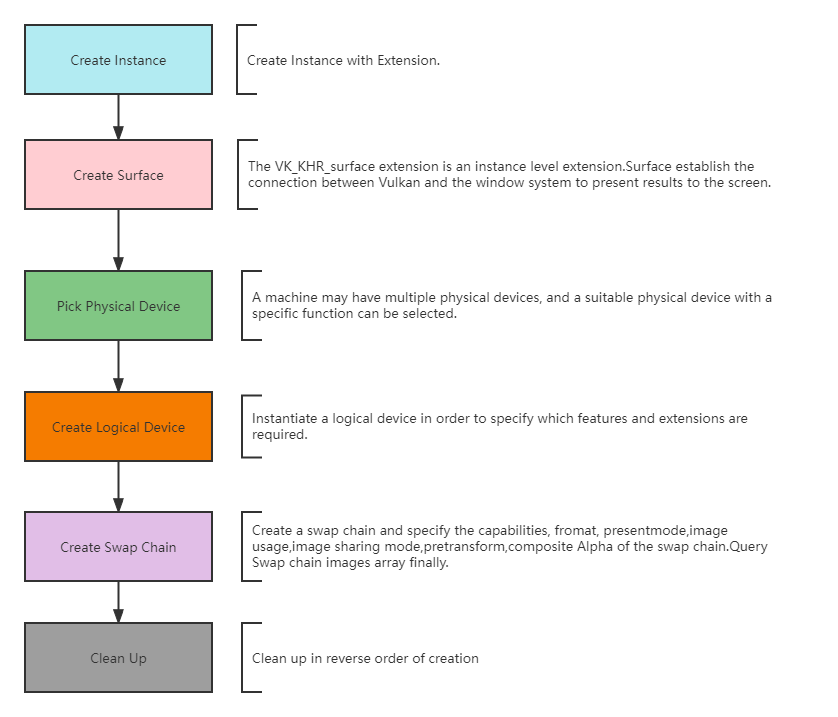
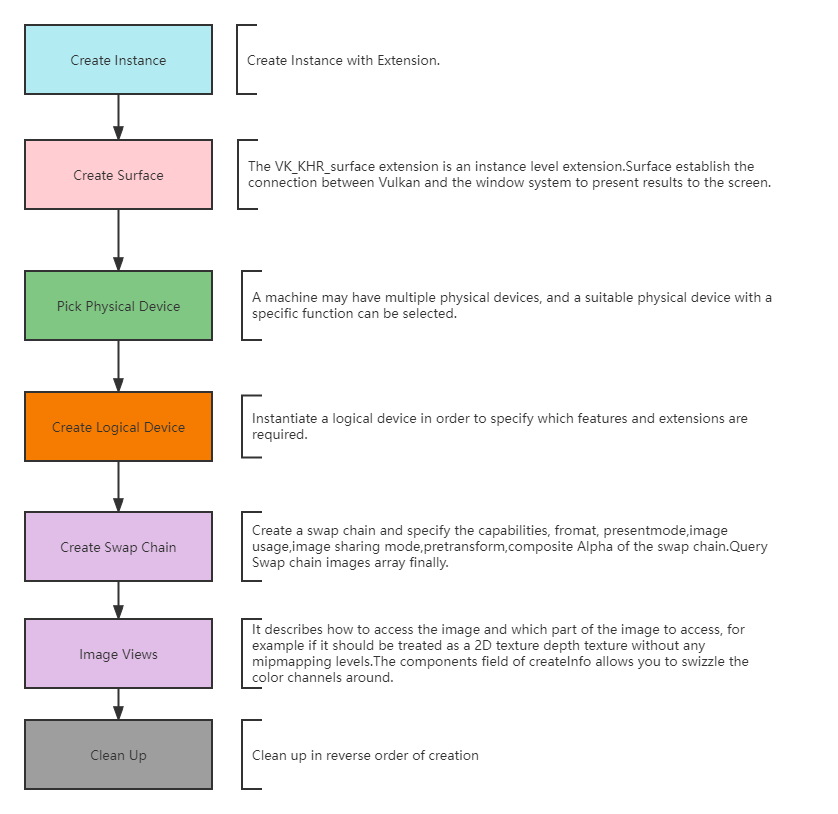
📃 docs: Image Views

diff --git a/docs/README.md b/docs/README.md
@@ -42,3 +42,6 @@ struct SwapChainSupportDetails
 ```
 
 > The images were created by the implementation for the swap chain and they will be automatically cleaned up once the swap chain has been destroyed, therefore we don’t need to add any cleanup code.
+
+## Image Views
+It describes how to access the image and which part of the image to access, for example if it should be treated as a 2D texture depth texture without any mipmapping levels.The components field of createInfo allows you to swizzle the color channels around.
